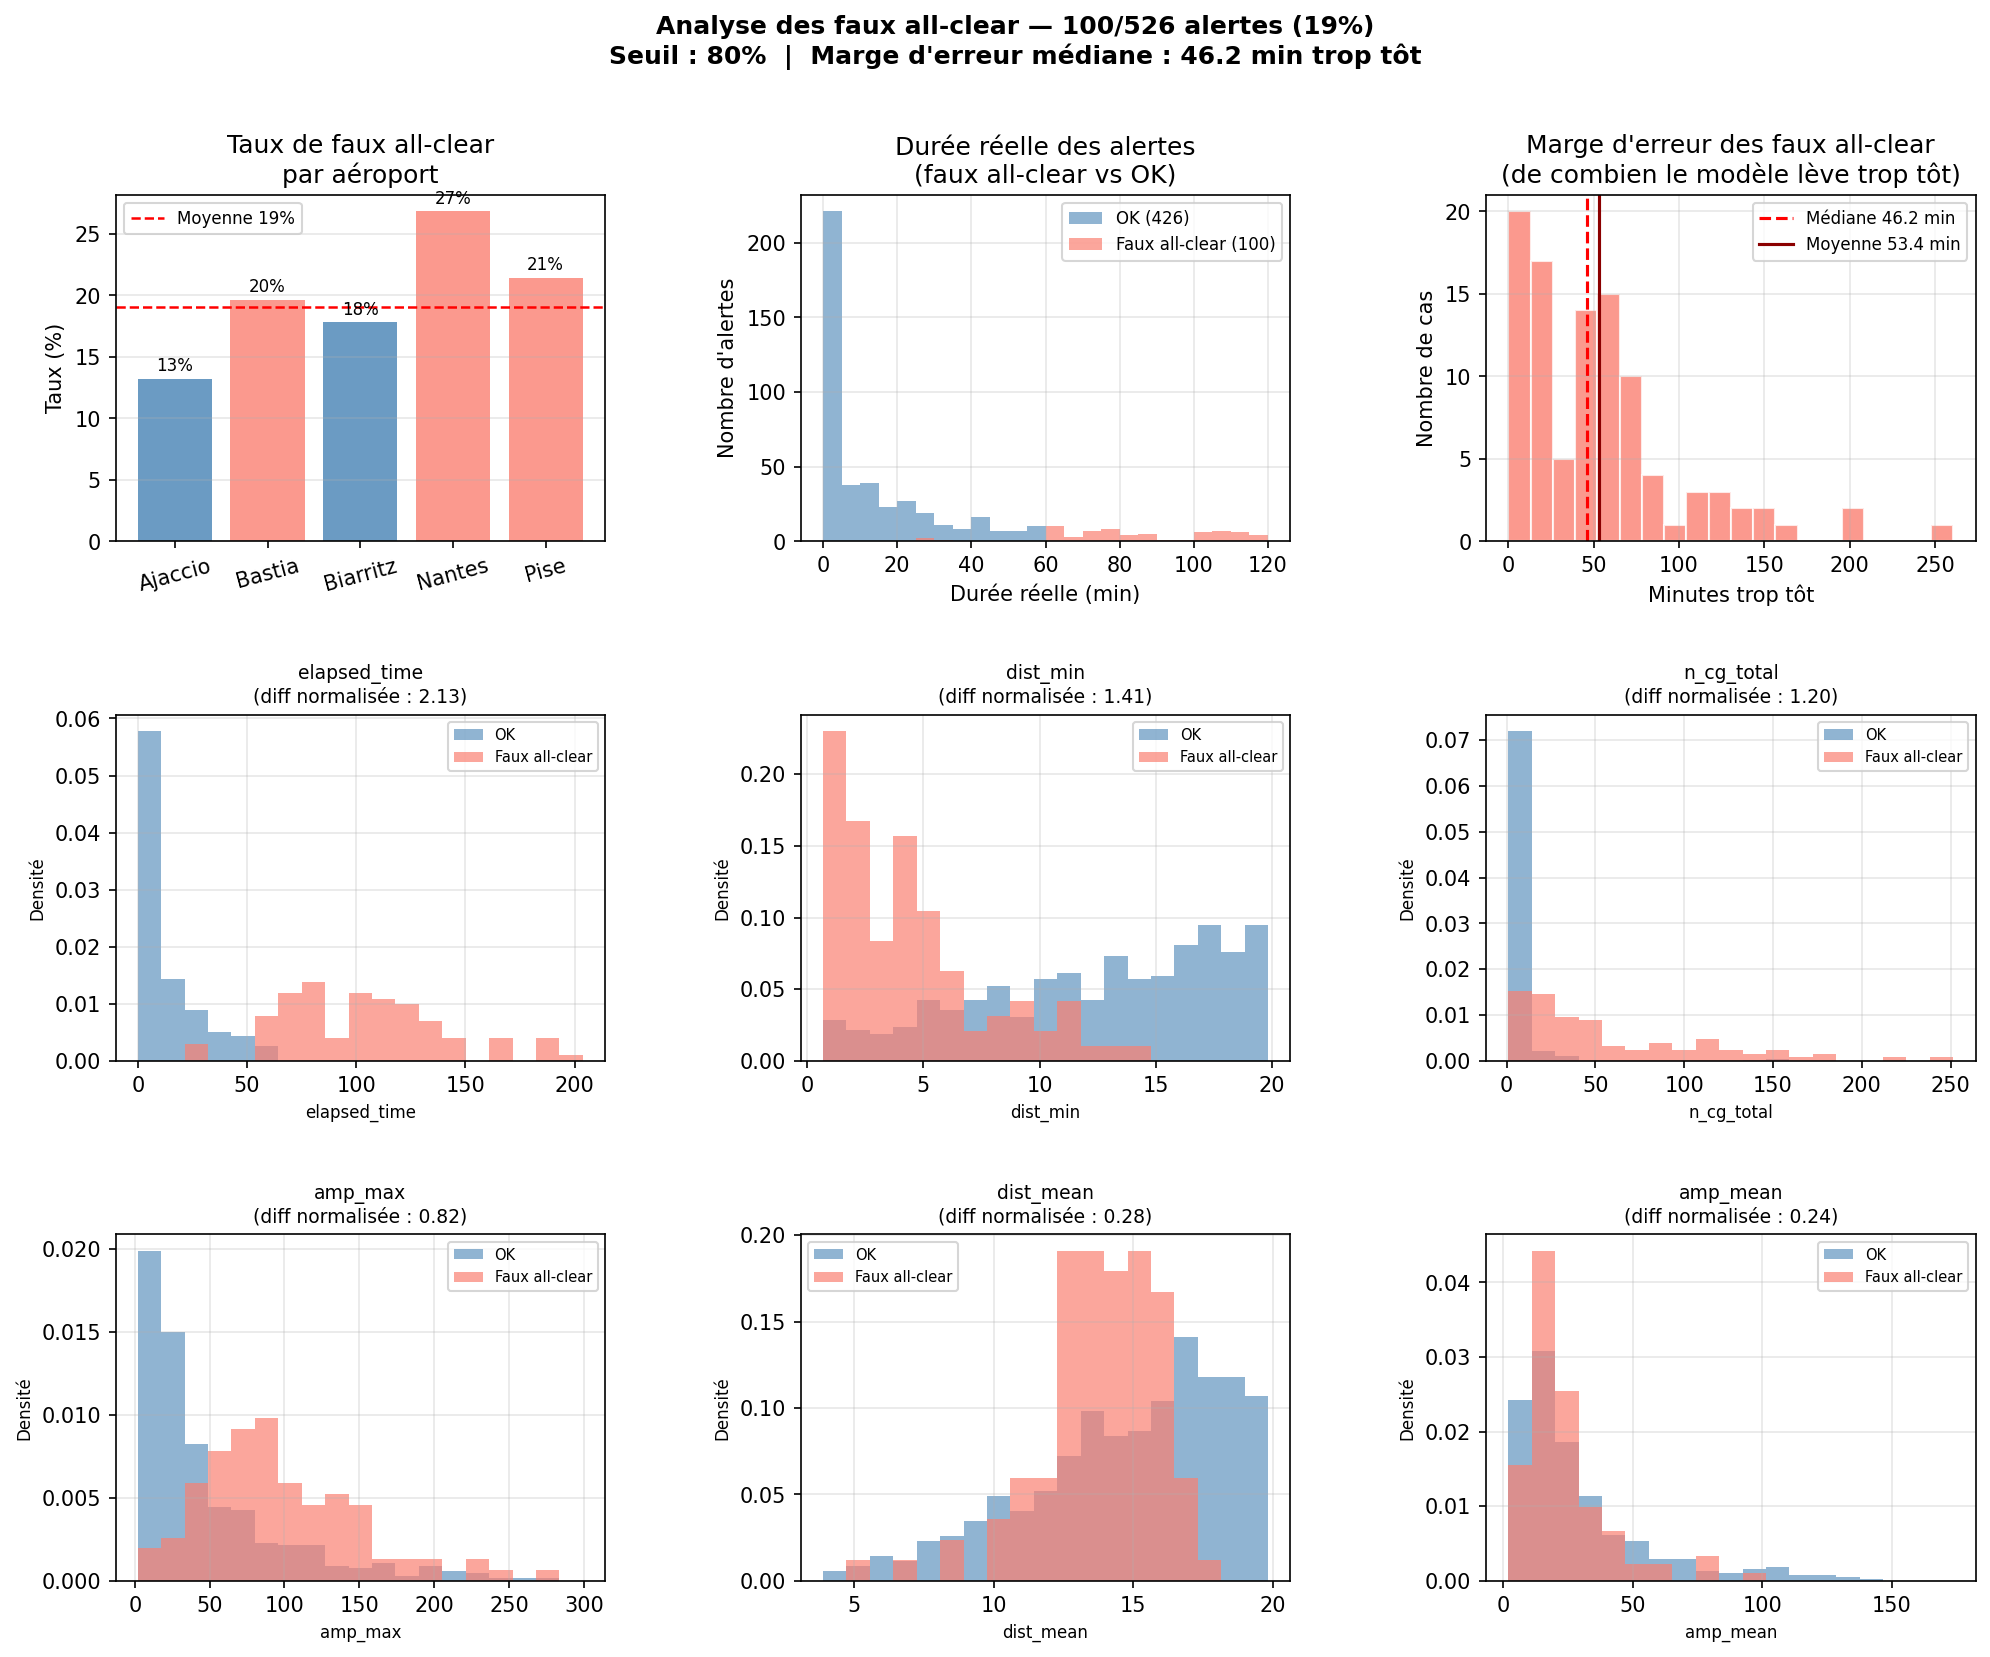
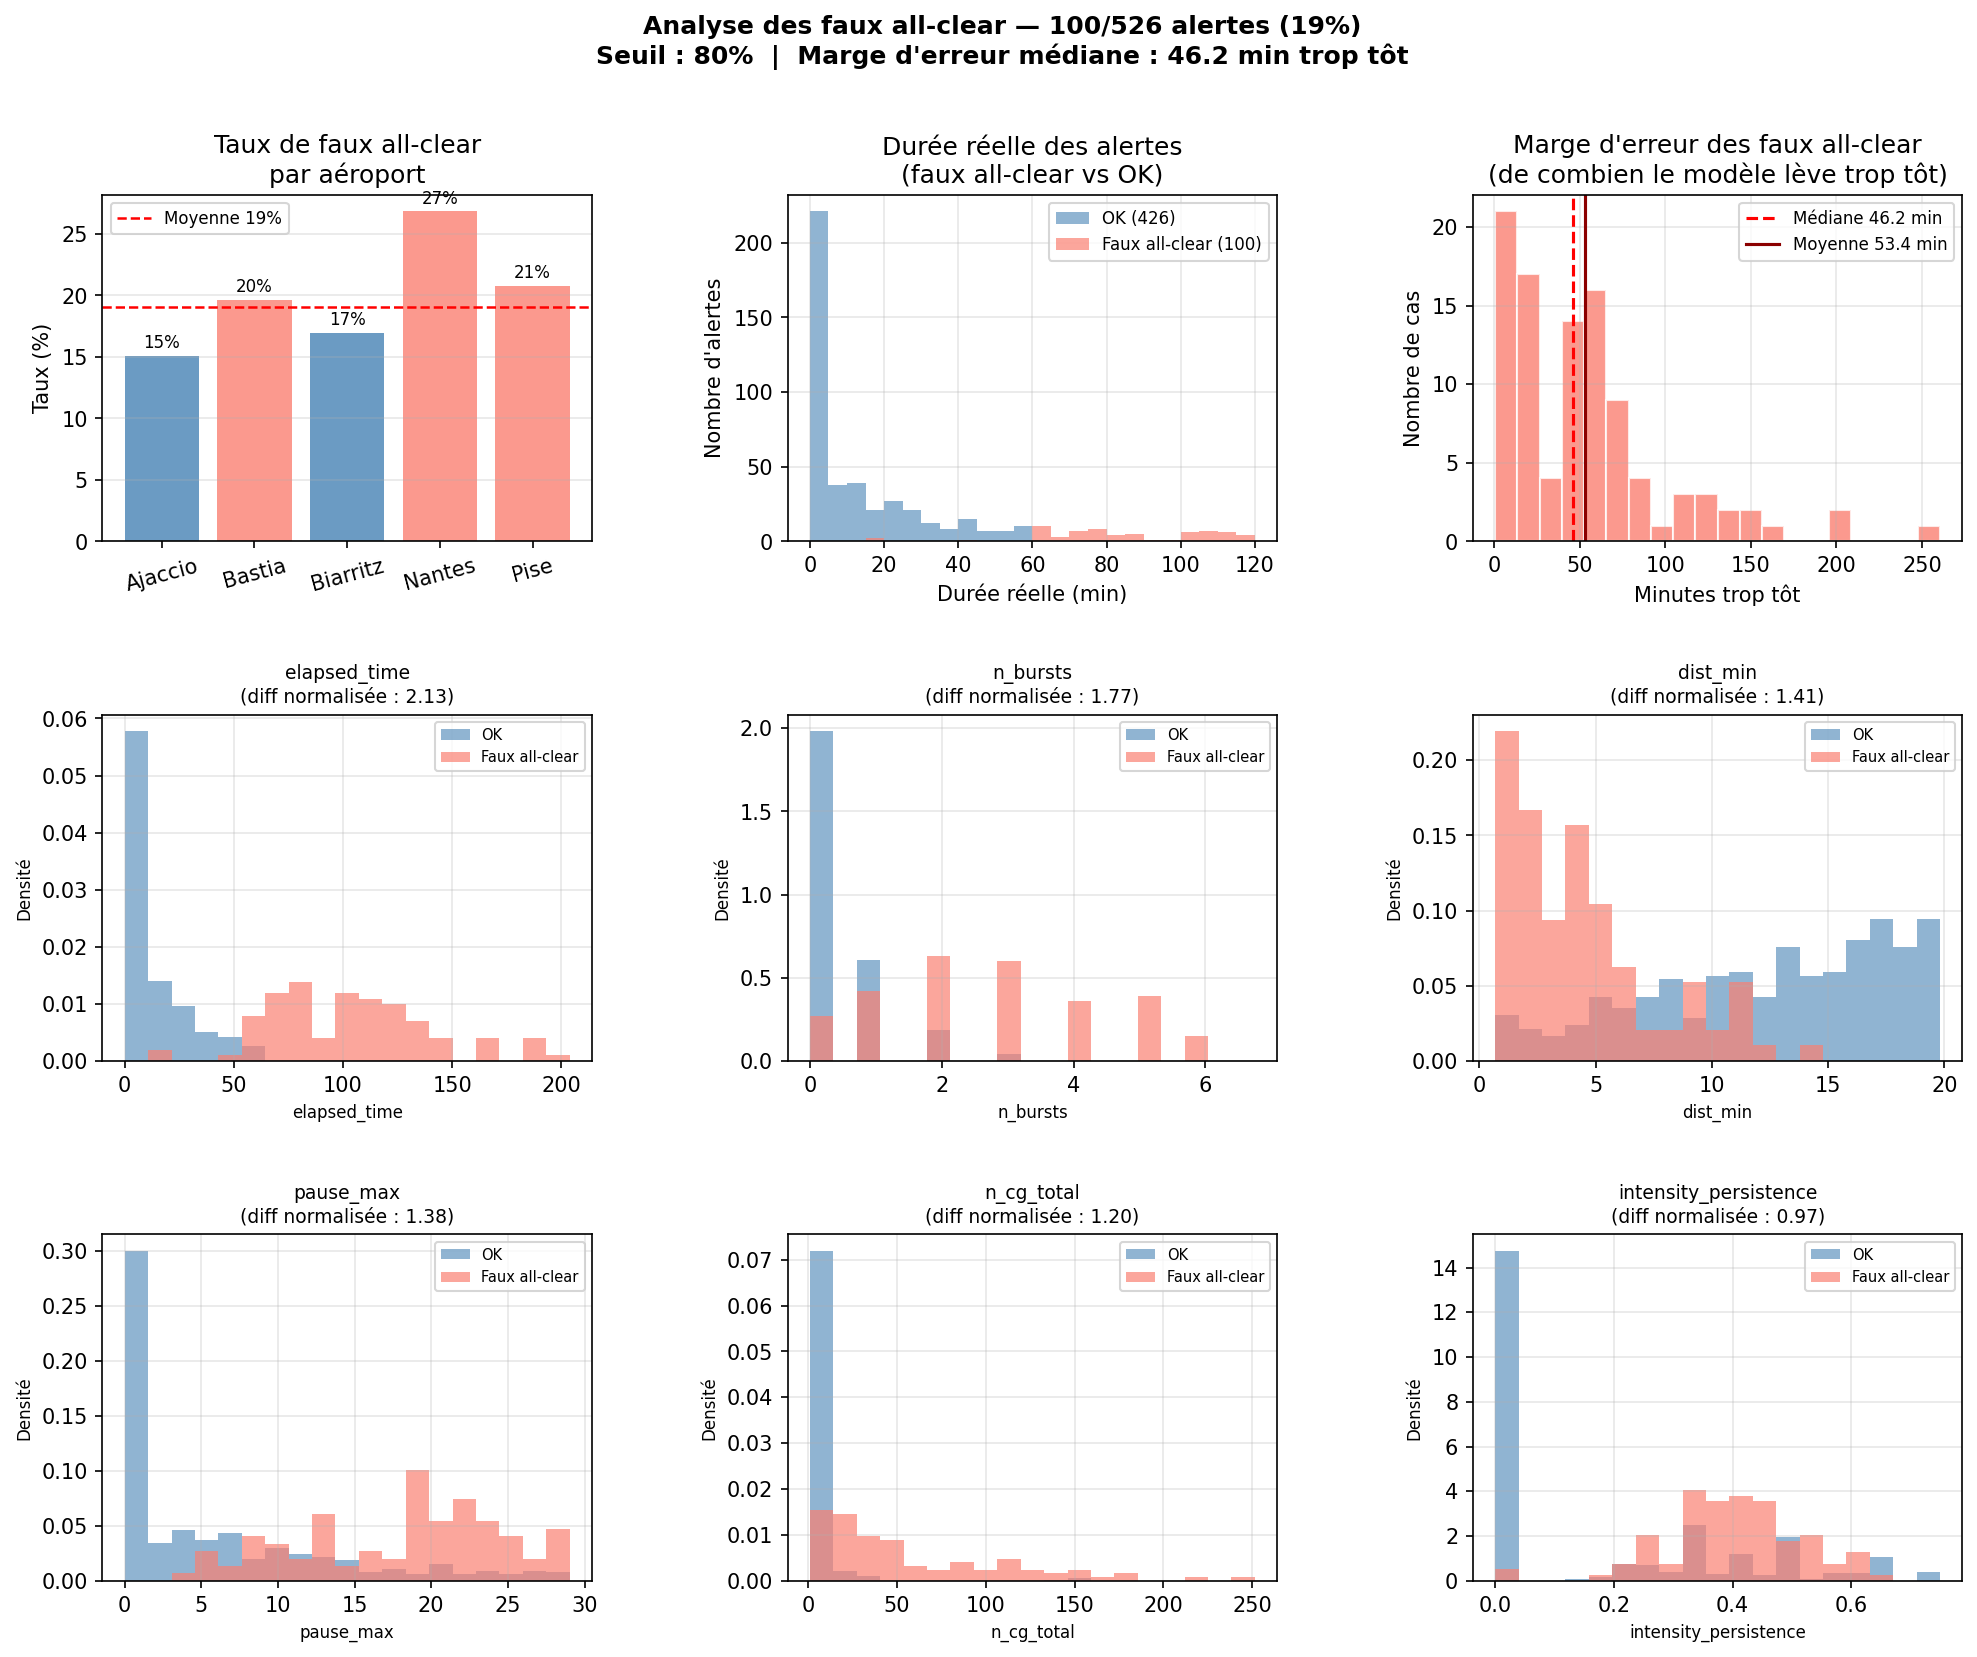
modifs de doc + ajout de feature

diff --git a/src/features.py b/src/features.py
@@ -42,6 +42,7 @@ ACTIVE_FEATURES = [
     "activity_variance",  # variance du comptage par fenêtre de 5 min
     "pause_max",  # plus longue pause entre deux éclairs CG (min)
     "intensity_persistence",  # proportion du temps avec activité > moyenne
+    "pause_ratio",  # pause_max / elapsed_time — relativise la pause par rapport à la durée totale
 ]
 
 # ---------------------------------------------------------------------------
@@ -255,6 +256,11 @@ def compute_alert_features(df: pd.DataFrame, window_minutes: int = 10) -> pd.Dat
         # ── Structure temporelle (nouvelles features) ────────────────────────
         burst_feats = _compute_burst_features(grp_cg["date"], duration, bin_size=5)
 
+        # pause_ratio : pause_max rapportée à la durée totale
+        # Ex : pause de 15 min sur une alerte de 20 min = 0.75 (inquiétant)
+        #      pause de 15 min sur une alerte de 120 min = 0.125 (moins inquiétant)
+        pause_ratio = burst_feats["pause_max"] / duration if duration > 0 else 0.0
+
         # ── Features inactives ───────────────────────────────────────────────
         recent_all = grp_all[grp_all["date"] >= t_window]
         n_ic_total = len(grp_all) - n_cg_total
@@ -293,6 +299,7 @@ def compute_alert_features(df: pd.DataFrame, window_minutes: int = 10) -> pd.Dat
                 "activity_variance": burst_feats["activity_variance"],
                 "pause_max": burst_feats["pause_max"],
                 "intensity_persistence": burst_feats["intensity_persistence"],
+                "pause_ratio": pause_ratio,
                 # ── Inactives ────────────────────────────────────────────────────
                 "n_ic_total": n_ic_total,
                 "ratio_ic_cg": ratio_ic_cg,

diff --git a/doc/1_read_this.md b/doc/1_read_this.md
@@ -209,7 +209,7 @@ python src/evaluate.py data/features.parquet
 Analyse en détail les alertes pour lesquelles le modèle recommande de lever trop tôt. Produit `outputs/false_allclear_analysis.png`.
 
 ```bash
-python analyze_false_allclear.py data/features.parquet
+python src/analyse_false_allclear.py data/features.parquet
 ```
 
 ### Étape 5 (optionnelle) — Inférence sur une alerte
